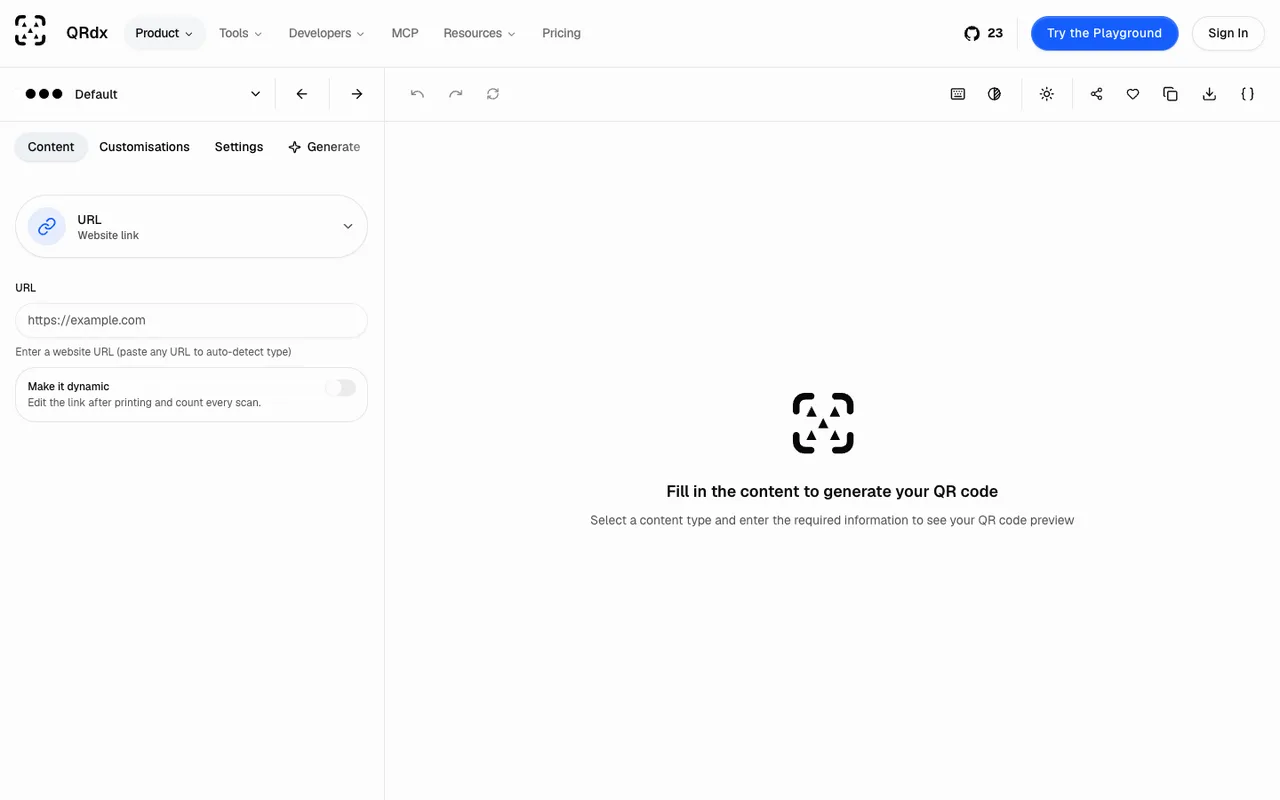
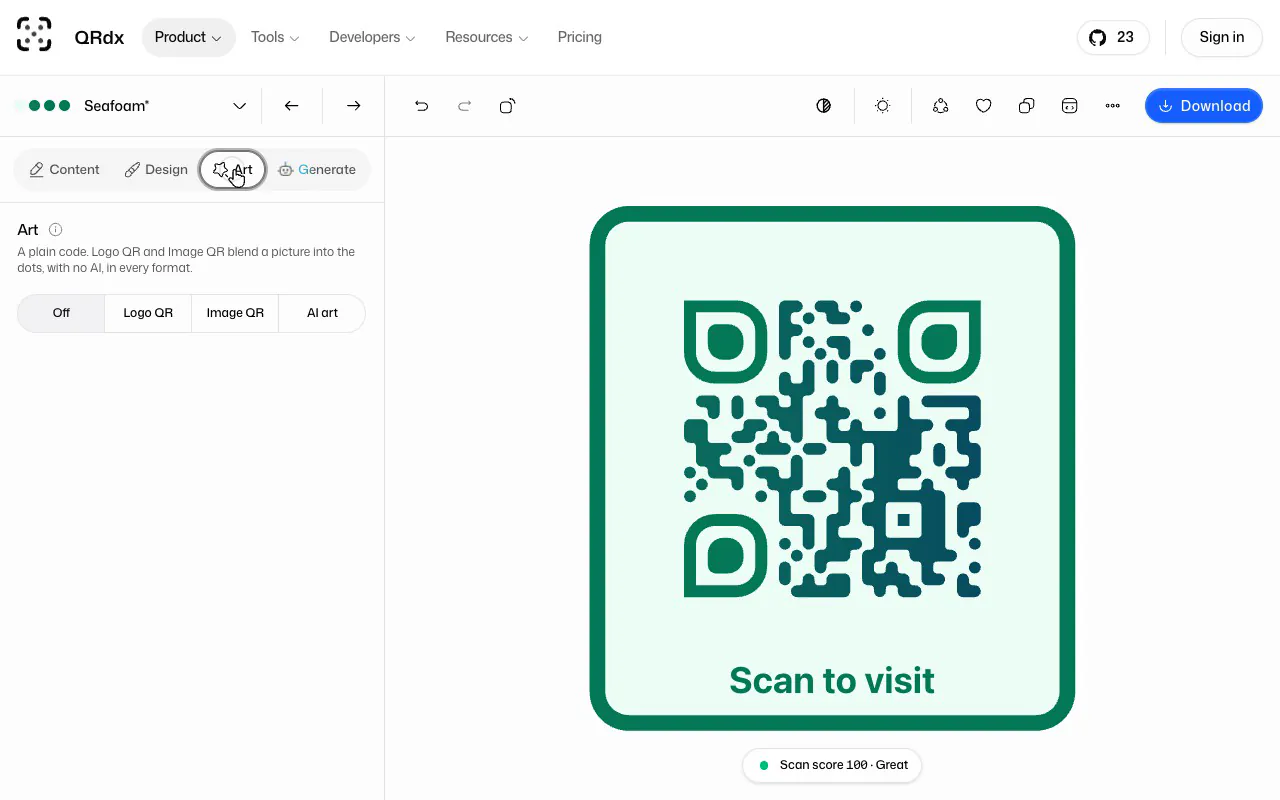
chore(media): re-record the playground video for today's editor
A local production build of staging, driven with real CDP input at
1280x800, 30 fps: a link typed, the Seafoam style picked from the theme
gallery, a linear gradient set in the paint picker, the frame text edited
in the preview, the Art tab (no generation) and the download dialog.
14.9 s (was 9.0 s, six steps instead of three) at a similar bitrate:
MP4 H.264 High 434 KB, WebM VP9 571 KB. Uploaded to R2 under new hashed
keys (lib/media-manifest.json). The poster is a frame of the clip.

diff --git a/apps/docs/components/mockups/visuals.ts b/apps/docs/components/mockups/visuals.ts
@@ -64,7 +64,7 @@ export const loopVideos = {
     width: 1280,
     height: 800,
     label:
-      "Screen recording: a link typed into the QRdx playground, dot patterns changed in the customisation panel, then the download dialog opened",
+      "Screen recording: a link typed into the QRdx playground, a style picked from the theme gallery, a linear gradient set in the color picker, the frame text changed to Scan to visit in the preview, the Art tab opened, then the download dialog",
   },
   bulk: {
     mp4: mediaUrl("/videos/bulk-csv-to-zip.mp4"),
